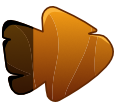
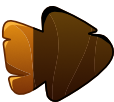
boost image

diff --git a/public/game.js b/public/game.js
@@ -55,6 +55,11 @@ async function loadAssets() {
     loadImage("stage1", "assets/stage1.png"),
     loadImage("stage2", "assets/stage2.png"),
     loadImage("stage3", "assets/stage3.png"),
+    loadImage("boost0", "assets/boost0.png"),
+    loadImage("boost25", "assets/boost25.png"),
+    loadImage("boost50", "assets/boost50.png"),
+    loadImage("boost75", "assets/boost75.png"),
+    loadImage("boost100", "assets/boost100.png"),
   ]);
 }
 
@@ -133,6 +138,29 @@ function drawStage(p, yOffset) {
   ctx.drawImage(stageImg, x, y, width, height);
 }
 
+function drawBoost(p, yOffset) {
+  const percent = p.boostPercent || 0;
+  let imgKey = "boost0";
+  if (percent > 75) imgKey = "boost100";
+  else if (percent > 50) imgKey = "boost75";
+  else if (percent > 25) imgKey = "boost50";
+  else if (percent > 0) imgKey = "boost25";
+
+  const img = assets[imgKey];
+  const height = 20 * SCALE; // tinggi indikator
+  const width = height * (9 / 10); // rasio 9:10
+  const padding = 8 * SCALE;
+
+  const x = CANVAS_WIDTH - width - padding;
+  const y = yOffset
+    + (5 * SCALE)              // offset nyawa
+    + (25 * SCALE)             // tinggi nyawa
+    + padding
+    + (25 * SCALE)             // tinggi stage
+    + padding;                 // jarak bawah stage
+
+  ctx.drawImage(img, x, y, width, height);
+}
 function drawPlayerName(p, yOffset) {
   const text = p.name;
   ctx.font = `${20 * SCALE}px Arial`;
@@ -166,6 +194,7 @@ function animate() {
     drawLives(p, offsetY);
     drawStage(p, offsetY);
     drawPlayer(p, offsetY);
+    drawBoost(p, offsetY);
   }
 
   // Garis pemisah tengah
